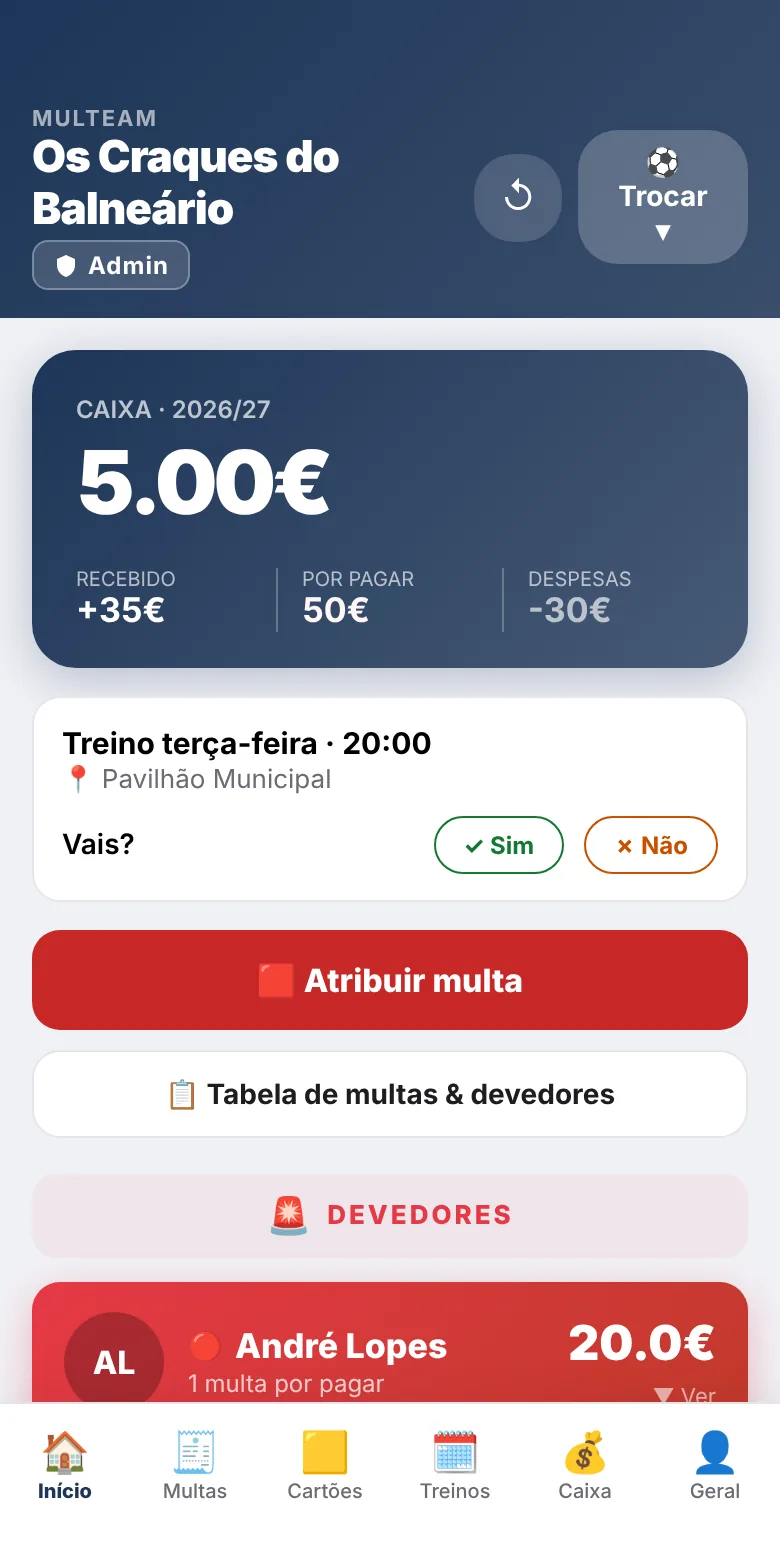
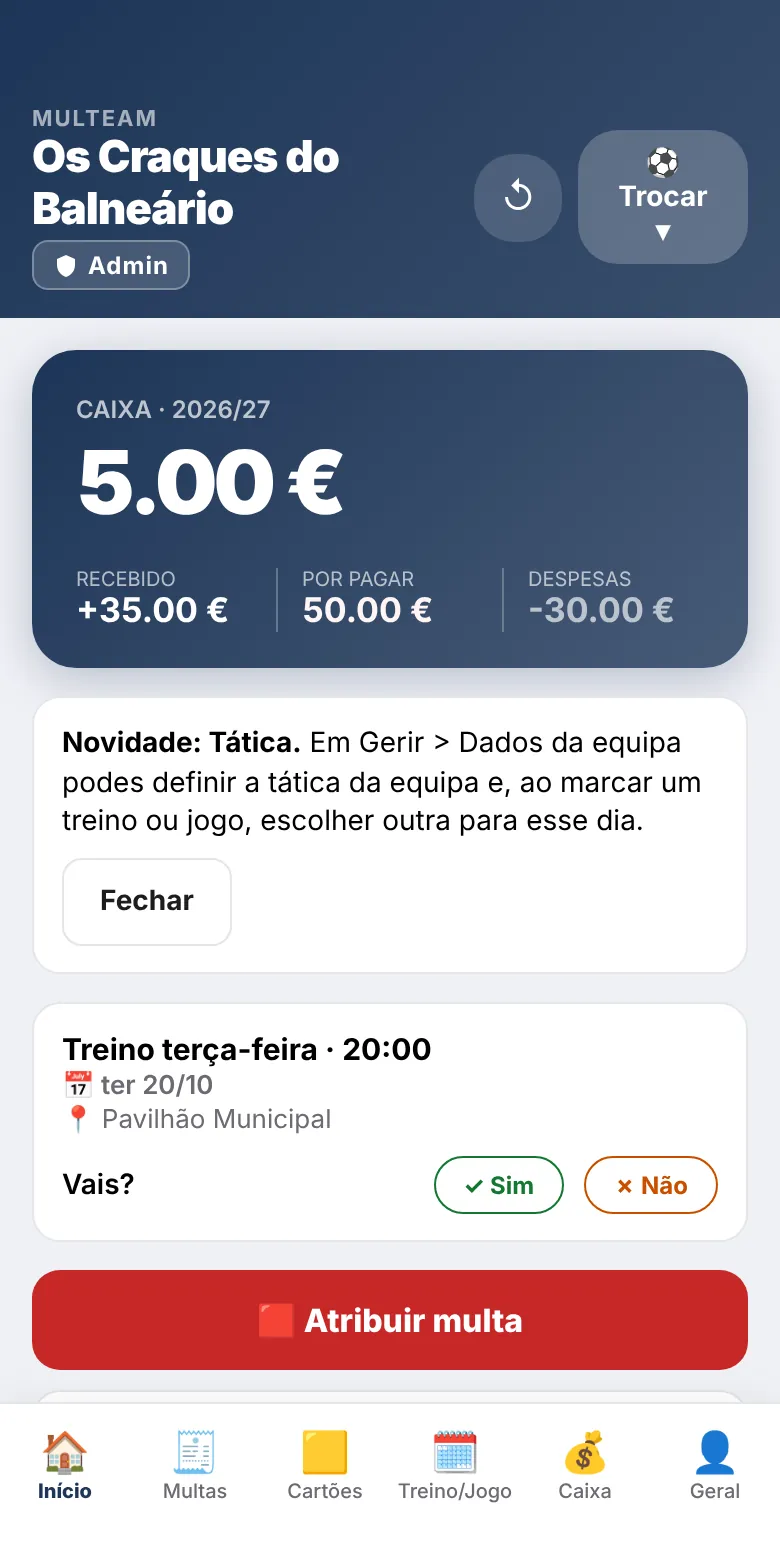
/sobre/: novidades dos jogos (barra Treino/Jogo, resultado e pontos, classificação por época, arquivo) e capturas novas
- bloco "Treinos, jogos e presenças" com o separador Treino/Jogo e as etiquetas Jogo/Treino
- bloco novo "Jogos, resultados e classificação" e pergunta nova nas FAQ (pontos, época 1 de julho a 30 de junho, arquivo 2 h)
- capturas inicio, multas, caixa e treinos refeitas (barra "Treino/Jogo") e jogos.webp nova, com equipa de teste

Claude-Session: https://claude.ai/code/session_01XW9KKCBSNgpnK8uyFYcZ7o

diff --git a/docs/sobre/index.html b/docs/sobre/index.html
@@ -198,14 +198,28 @@
             </div>
           </article>
           <article class="f">
-            <div class="phone"><img src="treinos.webp" width="390" height="780" loading="lazy" alt="Lista de treinos e jogos com os botões Presente e Ausente" /></div>
+            <div class="phone"><img src="treinos.webp" width="390" height="780" loading="lazy" alt="Ecrã Treinos / Jogos com a classificação da época e um jogo com o resultado 2–1, os pontos e os botões Presente e Ausente" /></div>
             <div>
               <h3>Treinos, jogos e presenças</h3>
-              <p>Marca os treinos e os jogos e cada jogador responde se vai ou não. Sabes logo com quantos podes contar.</p>
+              <p>Marca os treinos e os jogos no separador Treino/Jogo e cada jogador responde se vai ou não. Sabes logo com quantos podes contar.</p>
               <ul>
                 <li>Treinos, jogos e treinos que se repetem</li>
                 <li>Presente ou ausente com um toque</li>
                 <li>Cartões amarelos e vermelhos registados</li>
+                <li>Etiqueta &ldquo;Jogo&rdquo; em cada jogo e &ldquo;Treino&rdquo; em cada treino que se repete</li>
+              </ul>
+            </div>
+          </article>
+          <article class="f rev">
+            <div class="phone"><img src="jogos.webp" width="390" height="780" loading="lazy" alt="Painel Jogos com o jogo atual, o próximo jogo sem resultado, o arquivo e a classificação da época com vitórias, empates, derrotas e pontos" /></div>
+            <div>
+              <h3>Jogos, resultados e classificação</h3>
+              <p>Cria cada jogo com o adversário, a data e a hora, o local, a tática e se é em casa ou fora. O resultado é opcional: podes marcar o jogo sem resultado e registá-lo depois.</p>
+              <ul>
+                <li>Resultado em grande no cartão do jogo, com os pontos: vitória 3, empate 1, derrota 0</li>
+                <li>Quem gere a equipa edita e apaga o resultado no próprio cartão</li>
+                <li>Classificação com vitórias, empates, derrotas e pontos, por época (de 1 de julho a 30 de junho, hora da Suíça)</li>
+                <li>O jogo passa sozinho para o arquivo 2 horas depois do início</li>
               </ul>
             </div>
           </article>
@@ -248,6 +262,7 @@
         <details><summary>A Multeam é mesmo grátis?</summary><p>Sim. Podes criar a tua equipa e usar a app sem pagar.</p></details>
         <details><summary>Todos os jogadores precisam de conta?</summary><p>Cada jogador entra com o link ou o código da equipa para ver as suas multas e responder aos treinos. O admin da equipa também pode registar jogadores que ainda não entraram. Se o admin já criou o teu perfil, podes pedir para o assumir quando entrares, e ele aprova.</p></details>
         <details><summary>Quem atribui as multas e regista as despesas?</summary><p>Quem gere a equipa. Os restantes jogadores consultam as suas multas, a caixa e os treinos.</p></details>
+        <details><summary>Como se contam os pontos e a classificação dos jogos?</summary><p>A vitória dá 3 pontos, o empate 1 e a derrota 0. A classificação conta os jogos com resultado, por época: de 1 de julho a 30 de junho, em hora da Suíça. Um jogo passa para o arquivo 2 horas depois do início.</p></details>
         <details><summary>Posso ter mais do que uma equipa?</summary><p>Sim. Podes estar em várias equipas e trocar entre elas na app.</p></details>
         <details><summary>Funciona no iPhone e no Android?</summary><p>Sim, em qualquer telemóvel com um browser atual. Instala-se a partir do browser, sem loja de aplicações.</p></details>
         <details><summary>Não recebes notificações?</summary><p>Confirma que as permitiste no telemóvel. Se continuar sem chegar, escreve-nos em <a href="mailto:support@multeam.ch?subject=Multeam%20-%20Notifica%C3%A7%C3%B5es">Contacto</a>.</p></details>
